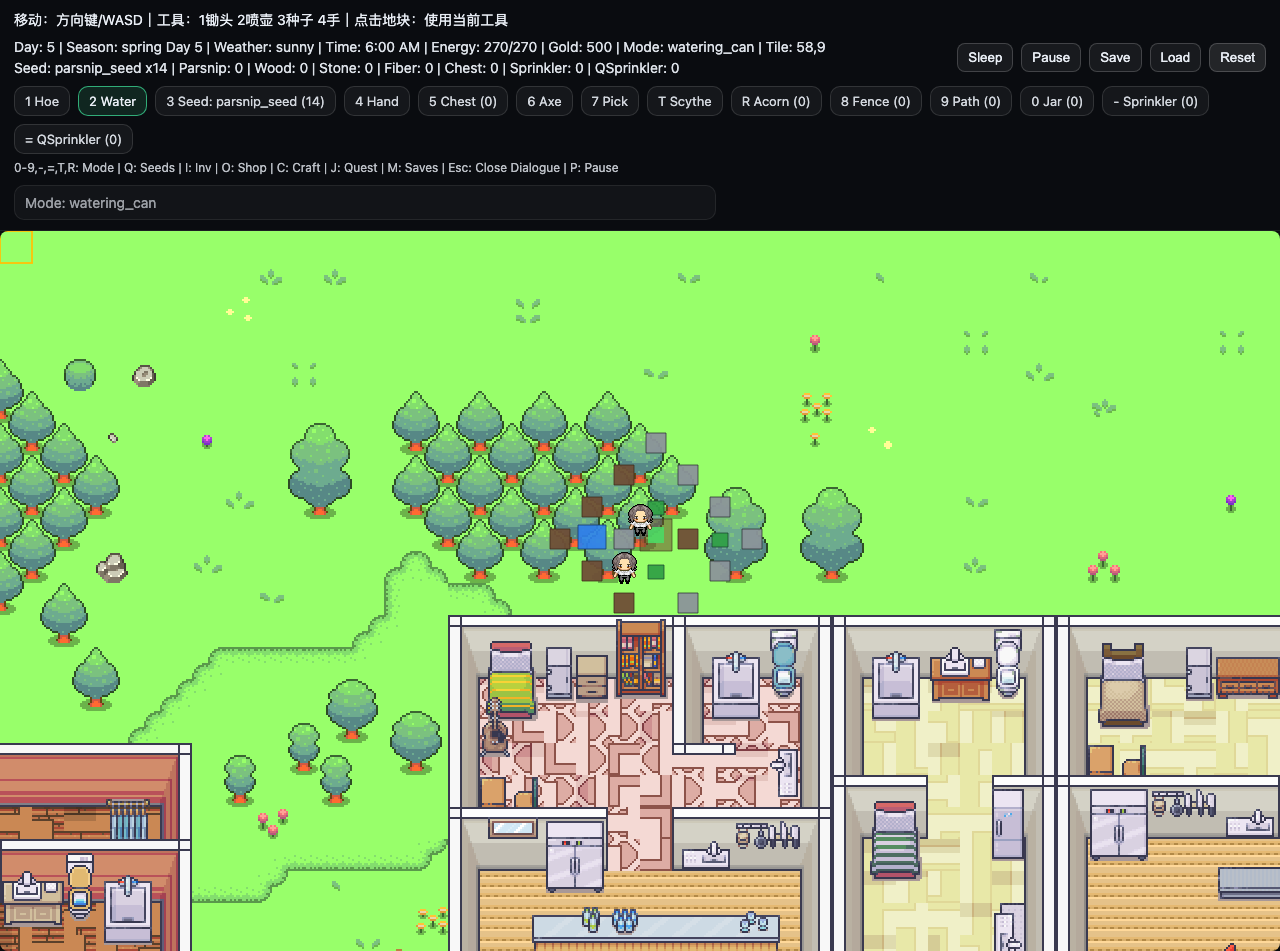
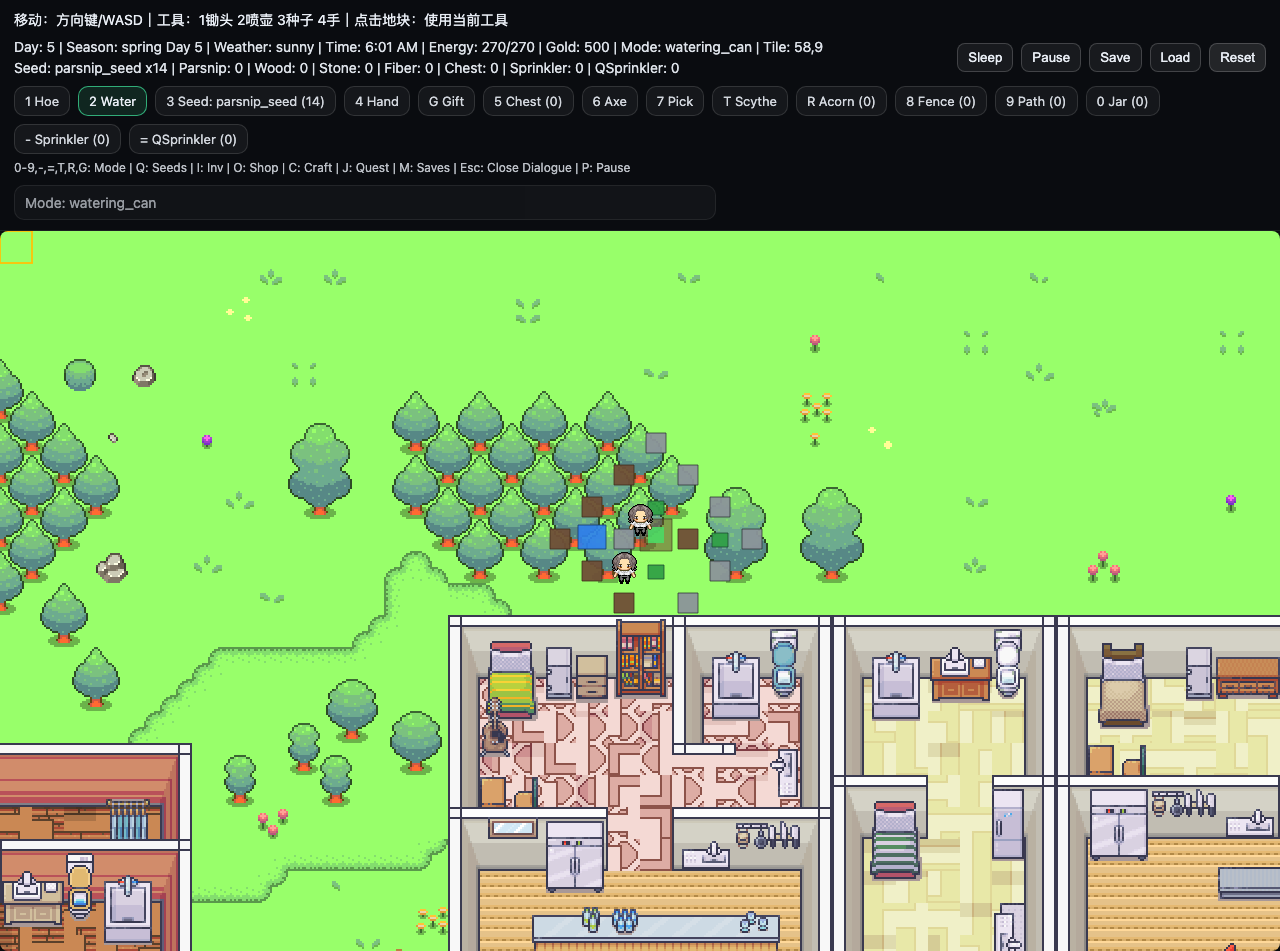
feat: NPC gifting

Changed region(s): [[0.3438, 0.0915, 0.9375, 0.122], [0.0312, 0.122, 0.5, 0.183], [0.3125, 0.0305, 0.6562, 0.061]]

diff --git a/src/simulation/FarmGame.ts b/src/simulation/FarmGame.ts
@@ -52,6 +52,7 @@ const ACTION_MINUTES = {
   plant: 10,
   harvest: 5,
   scythe: 5,
+  gift: 0,
   chop: 10,
   mine: 10
 } as const;
@@ -62,6 +63,7 @@ const ACTION_ENERGY = {
   plant: 2,
   harvest: 0,
   scythe: 0,
+  gift: 0,
   chop: 4,
   mine: 4
 } as const;
@@ -88,6 +90,26 @@ export class FarmGame {
   private objects = new Map<TileKey, PlacedObjectState>();
   private quest: QuestState | null = null;
   private relationships: Partial<Record<NpcId, RelationshipState>> = {};
+
+  private normalizeRelationshipState(state?: Partial<RelationshipState> | null): RelationshipState {
+    const friendshipRaw = Number(state?.friendship ?? 0);
+    const lastTalkDayRaw = Number(state?.lastTalkDay ?? 0);
+    const lastGiftDayRaw = Number((state as any)?.lastGiftDay ?? 0);
+    const friendship = Number.isFinite(friendshipRaw) ? Math.max(0, friendshipRaw) : 0;
+    const lastTalkDay = Number.isFinite(lastTalkDayRaw) ? Math.max(0, Math.floor(lastTalkDayRaw)) : 0;
+    const lastGiftDay = Number.isFinite(lastGiftDayRaw) ? Math.max(0, Math.floor(lastGiftDayRaw)) : 0;
+    return { friendship, lastTalkDay, lastGiftDay };
+  }
+
+  private normalizeRelationships(
+    rels: Partial<Record<NpcId, Partial<RelationshipState> | RelationshipState>> | null | undefined
+  ): Partial<Record<NpcId, RelationshipState>> {
+    const out: Partial<Record<NpcId, RelationshipState>> = {};
+    for (const id of Object.keys(NPCS) as NpcId[]) {
+      out[id] = this.normalizeRelationshipState(rels?.[id] as any);
+    }
+    return out;
+  }
 
   static newGame(): FarmGame {
     const g = new FarmGame();
@@ -212,7 +234,7 @@ export class FarmGame {
       for (const t of parsed.tiles ?? []) g.tiles.set(tileKey(t.tx, t.ty), t.state);
       for (const o of parsed.objects ?? []) g.objects.set(tileKey(o.tx, o.ty), o.obj);
       g.quest = parsed.quest ?? g.generateQuestForDay(g.day);
-      g.relationships = { ...g.defaultRelationships(), ...(parsed.relationships ?? {}) };
+      g.relationships = g.normalizeRelationships({ ...g.defaultRelationships(), ...(parsed.relationships ?? {}) });
       return g;
     }
     return null;
@@ -328,14 +350,12 @@ export class FarmGame {
   }
 
   getRelationship(npcId: NpcId): RelationshipState {
-    const r = this.relationships[npcId];
-    if (r) return { ...r };
-    return { friendship: 0, lastTalkDay: 0 };
+    return this.normalizeRelationshipState(this.relationships[npcId]);
   }
 
   talkToNpc(npcId: NpcId): { ok: boolean; reason?: string; friendshipGained?: number; relationship?: RelationshipState } {
     if (!NPCS[npcId]) return { ok: false, reason: "unknown_npc" };
-    const current = this.relationships[npcId] ?? { friendship: 0, lastTalkDay: 0 };
+    const current = this.normalizeRelationshipState(this.relationships[npcId]);
     if (current.lastTalkDay === this.day) return { ok: false, reason: "already_talked", relationship: { ...current } };
     const next = { ...current, friendship: current.friendship + 20, lastTalkDay: this.day };
     this.relationships[npcId] = next;
@@ -343,9 +363,35 @@ export class FarmGame {
   }
 
   private defaultRelationships(): Partial<Record<NpcId, RelationshipState>> {
-    const out: Partial<Record<NpcId, RelationshipState>> = {};
-    for (const id of Object.keys(NPCS) as NpcId[]) out[id] = { friendship: 0, lastTalkDay: 0 };
-    return out;
+    return this.normalizeRelationships(null);
+  }
+
+  giftToNpc(npcId: NpcId): {
+    ok: boolean;
+    reason?: string;
+    friendshipGained?: number;
+    itemId?: ItemId;
+    taste?: string;
+    relationship?: RelationshipState;
+  } {
+    const npc = NPCS[npcId];
+    if (!npc) return { ok: false, reason: "unknown_npc" };
+
+    const current = this.normalizeRelationshipState(this.relationships[npcId]);
+    if (current.lastGiftDay === this.day) return { ok: false, reason: "already_gifted", relationship: { ...current } };
+
+    const candidates: ItemId[] = ["blueberry", "cranberry", "potato", "parsnip", "wood", "fiber", "stone"];
+    const itemId = candidates.find((id) => this.countItem(id) > 0) ?? null;
+    if (!itemId) return { ok: false, reason: "no_gift_items", relationship: { ...current } };
+
+    const ok = this.consumeItem(itemId, 1);
+    if (!ok) return { ok: false, reason: "no_gift_items", relationship: { ...current } };
+
+    const taste = npc.giftTastes?.[itemId] ?? "neutral";
+    const delta = taste === "loved" ? 80 : taste === "liked" ? 45 : taste === "disliked" ? -20 : 20;
+    const next = { ...current, friendship: Math.max(0, current.friendship + delta), lastGiftDay: this.day };
+    this.relationships[npcId] = next;
+    return { ok: true, friendshipGained: delta, itemId, taste, relationship: { ...next } };
   }
 
   private generateQuestForDay(day: number): QuestState {

diff --git a/src/phaser/scenes/WorldScene.ts b/src/phaser/scenes/WorldScene.ts
@@ -302,6 +302,7 @@ export class WorldScene extends Phaser.Scene {
       if (ev.key === "=" || ev.key === "+") this.setMode("quality_sprinkler" as any);
       if (ev.key.toLowerCase() === "t") this.setMode("scythe");
       if (ev.key.toLowerCase() === "r") this.setMode("acorn" as any);
+      if (ev.key.toLowerCase() === "g") this.setMode("gift");
       if (ev.key.toLowerCase() === "q") this.cycleSeed();
       if (ev.key.toLowerCase() === "p") this.setPaused(!this.timePaused);
     });
@@ -502,6 +503,32 @@ export class WorldScene extends Phaser.Scene {
             this.toast(`Talked to ${name} (+${res.friendshipGained ?? 0})`, "info");
           } else {
             this.toast(`Talk failed: ${res.reason ?? "unknown"}`, "warn");
+          }
+          this.gameState.saveToStorage(this.saveSlot);
+          this.syncWindowState();
+          return res;
+        },
+        giftToNpc: (npcId: string) => {
+          if (npcId !== this.npcId) {
+            const res = { ok: false, reason: "unknown_npc" };
+            this.toast(`Gift failed: ${res.reason}`, "warn");
+            return res;
+          }
+          const res = this.gameState.giftToNpc(this.npcId);
+          if (res.ok) {
+            this.dialogue = {
+              npcId: this.npcId,
+              text: `Thanks for the ${res.itemId}! (${res.taste})`
+            };
+            this.toast(`Gifted ${res.itemId} (${res.taste})`, "info");
+          } else if (res.reason === "already_gifted") {
+            this.dialogue = { npcId: this.npcId, text: "No more gifts today. Thanks!" };
+            this.toast("Already gifted today", "warn");
+          } else if (res.reason === "no_gift_items") {
+            this.dialogue = { npcId: this.npcId, text: "You don't have anything to gift." };
+            this.toast("No gift items", "warn");
+          } else {
+            this.toast(`Gift failed: ${res.reason ?? "unknown"}`, "warn");
           }
           this.gameState.saveToStorage(this.saveSlot);
           this.syncWindowState();
@@ -1196,7 +1223,30 @@ export class WorldScene extends Phaser.Scene {
     else if (this.mode === "quality_sprinkler") ok = this.gameState.placeSimpleObject(tx, ty, "quality_sprinkler");
     else if (this.mode === "preserves_jar") ok = this.gameState.placePreservesJar(tx, ty);
     else if ((this.mode as ToolId) === "scythe") ok = this.gameState.scythe(tx, ty);
-    else if ((this.mode as ToolId) === "axe") {
+    else if ((this.mode as ToolId) === "gift") {
+      if (!this.isNpcAt(tx, ty)) {
+        ok = true;
+        this.toast("No NPC here", "warn");
+      } else {
+        const res = this.gameState.giftToNpc(this.npcId);
+        ok = res.ok;
+        if (ok) {
+          this.dialogue = { npcId: this.npcId, text: `Thanks for the ${res.itemId}! (${res.taste})` };
+          this.toast(`Gifted ${res.itemId} (${res.taste})`, "info");
+          this.gameState.saveToStorage(this.saveSlot);
+        } else if (res.reason === "already_gifted") {
+          ok = true;
+          this.dialogue = { npcId: this.npcId, text: "No more gifts today. Thanks!" };
+          this.toast("Already gifted today", "warn");
+        } else if (res.reason === "no_gift_items") {
+          ok = true;
+          this.dialogue = { npcId: this.npcId, text: "You don't have anything to gift." };
+          this.toast("No gift items", "warn");
+        } else {
+          this.toast(`Gift failed: ${res.reason ?? "unknown"}`, "warn");
+        }
+      }
+    } else if ((this.mode as ToolId) === "axe") {
       const obj = this.gameState.getObject(tx, ty);
       if (obj?.id === "chest") {
         const res = this.gameState.pickupChestIfEmpty(tx, ty);
@@ -1240,8 +1290,7 @@ export class WorldScene extends Phaser.Scene {
       } else {
         ok = this.gameState.mine(tx, ty);
       }
-    }
-    else if ((this.mode as ToolId) === "hand") {
+    } else if ((this.mode as ToolId) === "hand") {
       if (this.isNpcAt(tx, ty)) {
         const res = this.gameState.talkToNpc(this.npcId);
         ok = res.ok;

diff --git a/e2e/game.spec.ts b/e2e/game.spec.ts
@@ -650,3 +650,45 @@ test("npc: talk increases friendship and persists", async ({ page }) => {
 
   expect(afterReload).toBeGreaterThan(0);
 });
+
+test("npc: gifting consumes item and changes friendship", async ({ page }) => {
+  await page.goto("/");
+  await page.waitForSelector("#game-container canvas");
+  await page.waitForFunction(() => (window as any).__cokeFamer?.ready === true);
+
+  await page.evaluate(() => {
+    const s = (window as any).__cokeFamer;
+    s.api.setSaveSlot(3);
+    s.api.reset();
+  });
+
+  const res = await page.evaluate(() => {
+    const s = (window as any).__cokeFamer;
+    const beforeFriend = s.relationships?.townie?.friendship ?? 0;
+    const beforeWood = s.inventory.wood ?? 0;
+    if (beforeWood <= 0) {
+      const { tx, ty } = s.player;
+      const adjacent = [
+        { tx: tx + 1, ty },
+        { tx: tx - 1, ty },
+        { tx, ty: ty + 1 },
+        { tx, ty: ty - 1 }
+      ];
+      for (let i = 0; i < 8 && (s.inventory.wood ?? 0) <= 0; i++) {
+        for (const p of adjacent) s.api.useAt(p.tx, p.ty, "axe");
+      }
+    }
+    const woodReady = s.inventory.wood ?? 0;
+    if (woodReady <= 0) return { ok: false, step: "no_wood" };
+
+    const gift = s.api.giftToNpc("townie");
+    const afterFriend = s.relationships?.townie?.friendship ?? 0;
+    const afterWood = s.inventory.wood ?? 0;
+    return { ok: true, gift, beforeFriend, afterFriend, beforeWood: woodReady, afterWood };
+  });
+
+  expect(res.ok).toBeTruthy();
+  expect((res as any).gift.ok).toBeTruthy();
+  expect((res as any).afterFriend).not.toBe((res as any).beforeFriend);
+  expect((res as any).afterWood).toBeLessThan((res as any).beforeWood);
+});

diff --git a/src/types/global.d.ts b/src/types/global.d.ts
@@ -24,7 +24,7 @@ declare global {
       toast?: { text: string; kind: "info" | "warn" | "error"; ts: number } | null;
       container?: { kind: string; tx?: number; ty?: number; slots: Array<{ itemId: string; qty: number } | null> } | null;
       quest?: { dayIssued: number; itemId: string; qty: number; rewardGold: number; completed: boolean } | null;
-      relationships?: Record<string, { friendship: number; lastTalkDay: number }>;
+      relationships?: Record<string, { friendship: number; lastTalkDay: number; lastGiftDay: number }>;
       dialogue?: { npcId: string; text: string } | null;
       tilledCount: number;
       lastClick: { tx: number; ty: number; blocked: boolean; toggled: boolean } | null;
@@ -57,6 +57,7 @@ declare global {
         setQuest: (q: any) => void;
         completeQuest: () => { ok: boolean; reason?: string; goldGained?: number };
         talkToNpc: (npcId: string) => { ok: boolean; reason?: string; friendshipGained?: number };
+        giftToNpc: (npcId: string) => { ok: boolean; reason?: string; friendshipGained?: number; itemId?: string; taste?: string };
         closeDialogue: () => void;
         craft: (itemId: string, qty: number) => { ok: boolean; reason?: string };
         sellStack: (stack: { itemId: string; qty: number }) => { ok: boolean; goldGained?: number; reason?: string };

diff --git a/src/ui/hud.ts b/src/ui/hud.ts
@@ -69,7 +69,7 @@ export function mountHud(containerId: string): void {
 
   const subHint = el("div", "subhint");
   subHint.textContent =
-    "0-9,-,=,T,R: Mode | Q: Seeds | I: Inv | O: Shop | C: Craft | J: Quest | M: Saves | Esc: Close Dialogue | P: Pause";
+    "0-9,-,=,T,R,G: Mode | Q: Seeds | I: Inv | O: Shop | C: Craft | J: Quest | M: Saves | Esc: Close Dialogue | P: Pause";
   host.appendChild(subHint);
 
   const btnSleep = document.getElementById("btn-sleep") as HTMLButtonElement;
@@ -284,6 +284,7 @@ export function mountHud(containerId: string): void {
       { key: "watering_can", label: "2 Water" },
       { key: seedId, label: `3 Seed: ${seedId} (${seedQty})` },
       { key: "hand", label: "4 Hand" },
+      { key: "gift", label: "G Gift" },
       { key: "chest", label: `5 Chest (${inventory.chest ?? 0})` },
       { key: "axe", label: "6 Axe" },
       { key: "pickaxe", label: "7 Pick" },

diff --git a/src/simulation/types.ts b/src/simulation/types.ts
@@ -2,7 +2,7 @@ import type { CropId } from "../content/crops";
 import type { ItemId } from "../content/items";
 import type { NpcId } from "../content/npcs";
 
-export type ToolId = "hoe" | "watering_can" | "axe" | "pickaxe" | "scythe" | "hand";
+export type ToolId = "hoe" | "watering_can" | "axe" | "pickaxe" | "scythe" | "gift" | "hand";
 export type ActionId = ToolId | ItemId;
 
 export type TileKey = `${number},${number}`;
@@ -36,6 +36,7 @@ export type QuestState = {
 export type RelationshipState = {
   friendship: number; // 0..?
   lastTalkDay: number; // 0 means never
+  lastGiftDay: number; // 0 means never
 };
 
 export type PlacedObjectId =

diff --git a/src/content/npcs.ts b/src/content/npcs.ts
@@ -1,11 +1,25 @@
+import type { ItemId } from "./items";
+
 export type NpcId = "townie";
+
+export type GiftTaste = "loved" | "liked" | "neutral" | "disliked";
 
 export type NpcDef = {
   id: NpcId;
   name: string;
+  giftTastes?: Partial<Record<ItemId, GiftTaste>>;
 };
 
 export const NPCS: Record<NpcId, NpcDef> = {
-  townie: { id: "townie", name: "Townie" }
+  townie: {
+    id: "townie",
+    name: "Townie",
+    giftTastes: {
+      blueberry: "loved",
+      parsnip: "liked",
+      wood: "liked",
+      fiber: "neutral",
+      stone: "disliked"
+    }
+  }
 };
-

diff --git a/src/ui/dialoguePanel.ts b/src/ui/dialoguePanel.ts
@@ -57,6 +57,13 @@ export function mountDialoguePanel(host: HTMLElement): {
     const text = el("div", "dialogue-text");
     text.textContent = d.text;
     body.appendChild(text);
+
+    const actions = el("div", "dialogue-actions");
+    const giftBtn = el("button", "btn");
+    giftBtn.textContent = "Gift (G)";
+    giftBtn.onclick = () => window.__cokeFamer?.api?.giftToNpc?.(d.npcId);
+    actions.appendChild(giftBtn);
+    body.appendChild(actions);
   };
 
   return { setOpen, isOpen: () => open, render };

diff --git a/src/style.css b/src/style.css
@@ -195,6 +195,12 @@ body {
   opacity: 0.95;
 }
 
+.dialogue-actions {
+  margin-top: 10px;
+  display: flex;
+  gap: 8px;
+}
+
 .inv-header {
   display: flex;
   align-items: center;

diff --git a/docs/玩法说明.md b/docs/玩法说明.md
@@ -3,6 +3,7 @@
 打开方式（体验版服务）：
 
 - 打开浏览器访问：`http://localhost:4173/`
+- 或：`http://127.0.0.1:4173/`
 - 如果访问不了：在项目根目录运行 `npm run preview:daemon`（启动），运行 `npm run preview:stop`（停止）
 
 示意图（HUD/世界）：
@@ -30,6 +31,7 @@
 13) 每日任务：打开 Quest 面板提交物品换取金币奖励
 14) 多存档槽：支持 Slot 1/2/3 独立存档，并支持导入/导出 JSON
 15) NPC 对话与好感：与 NPC 对话会提升好感（每天一次）
+16) NPC 送礼：对 NPC 送礼会消耗 1 个物品并影响好感（每天一次；不同物品有不同喜好）
 
 ---
 
@@ -55,6 +57,7 @@
 - `=`：高级洒水器（Quality Sprinkler，放置 8 格洒水器）
 - `T`：镰刀（Scythe，清理杂草 weed 获得 fiber）
 - `R`：橡果（Acorn，种树）
+- `G`：送礼（Gift，对 NPC 送礼）
 - `Q`：循环切换“当前选中”的种子（只会在你背包里有对应种子时才会切到）
 - `C`：制作（Craft，打开制作面板）
 - `J`：任务（Quest，打开每日任务面板）
@@ -86,6 +89,10 @@
 示意图（NPC 对话：对话后好感提升）：
 
 ![Dialogue](./screenshots/17-dialogue.png)
+
+示意图（送礼：按 `G` 进入 Gift 模式，对着 NPC 点击送礼；或在对话面板点 Gift 按钮）：
+
+![Gift](./screenshots/18-gift.png)
 
 交互限制（更接近星露谷的手感）：
 

diff --git a/README.md b/README.md
@@ -7,6 +7,9 @@
 ![World](docs/screenshots/01-world.png)
 ![Farming](docs/screenshots/02-farming.png)
 ![Inventory](docs/screenshots/03-inventory.png)
+![Shop](docs/screenshots/04-shop.png)
+![Dialogue](docs/screenshots/17-dialogue.png)
+![Gift](docs/screenshots/18-gift.png)
 
 ## 运行
 
